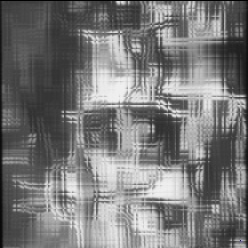
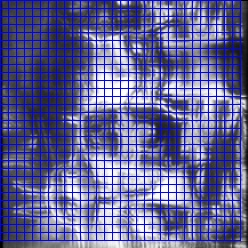
rotation new image

diff --git a/extraction.py b/extraction.py
@@ -89,14 +89,20 @@ def basic_rotations(rot0):
     rot270 = warpAffine(rot180, rot_matrix, (center * 2, center * 2))
     vertical = flip(rot0, 0)
     horizontal = flip(rot0, 1)
+    rot0_c = cvtColor(rot0, COLOR_GRAY2BGR)
+    rot90_c = cvtColor(rot90, COLOR_GRAY2BGR)
+    rot180_c = cvtColor(rot180, COLOR_GRAY2BGR)
+    rot270_c = cvtColor(rot270, COLOR_GRAY2BGR)
+    vertical_c = cvtColor(vertical, COLOR_GRAY2BGR)
+    horizontal_c = cvtColor(horizontal, COLOR_GRAY2BGR)
     for x in range(0,31):
         for y in range(0,31):
-           rot0_c = rectangle(cvtColor(rot0, COLOR_GRAY2BGR), (x * 8, x * 8), (y * 8, y * 8), (255,0,0), 1)
-           rot90_c = rectangle(cvtColor(rot90, COLOR_GRAY2BGR), (x * 8, x* 8), (y * 8,y * 8), (255,0,0), 1)
-           rot180_c = rectangle(cvtColor(rot180, COLOR_GRAY2BGR), (x * 8,x * 8), (y * 8,y * 8), (255,0,0), 1)
-           rot270_c = rectangle(cvtColor(rot270, COLOR_GRAY2BGR), (x * 8,x *8), (y * 8,y * 8), (255,0,0), 1)
-           vertical_c = rectangle(cvtColor(vertical, COLOR_GRAY2BGR), (x * 8,x * 8), (y * 8,y * 8), (255,0,0), 1)
-           horizontal_c = rectangle(cvtColor(horizontal, COLOR_GRAY2BGR), (x * 8,x * 8), (y * 8,y *8), (255,0,0), 1)
+           rot0_c = rectangle(rot0_c, (x * 8, x * 8), (y * 8, y * 8), (255,0,0), 1)
+           rot90_c = rectangle(rot90_c, (x * 8, x* 8), (y * 8,y * 8), (255,0,0), 1)
+           rot180_c = rectangle(rot180_c, (x * 8,x * 8), (y * 8,y * 8), (255,0,0), 1)
+           rot270_c = rectangle(rot270_c, (x * 8,x *8), (y * 8,y * 8), (255,0,0), 1)
+           vertical_c = rectangle(vertical_c, (x * 8,x * 8), (y * 8,y * 8), (255,0,0), 1)
+           horizontal_c = rectangle(horizontal_c, (x * 8,x * 8), (y * 8,y *8), (255,0,0), 1)
     imwrite("rot90_all.jpg",rot90_c)
     imwrite("rot180_all.jpg",rot180_c)
     imwrite("rot270_all.jpg", rot270_c)
